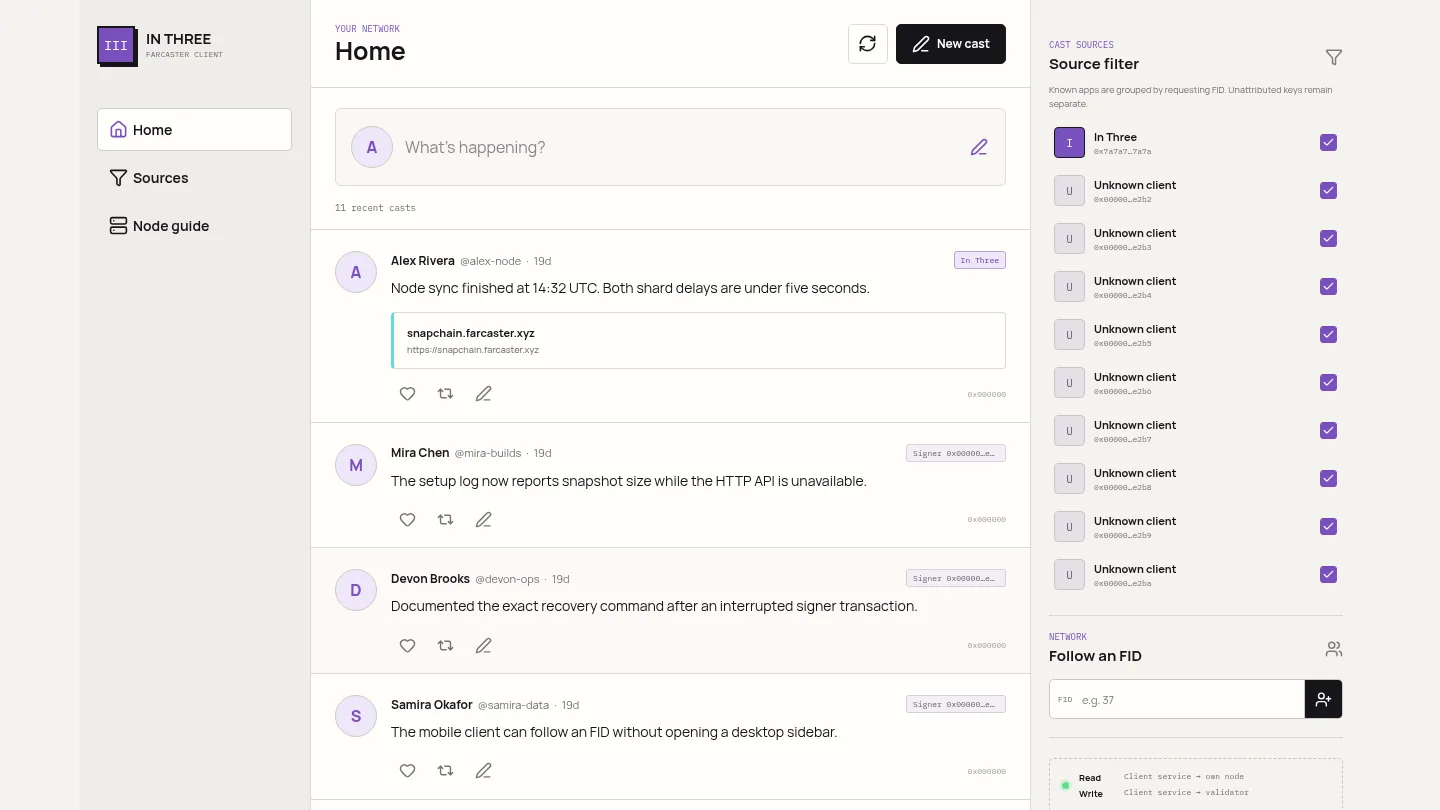
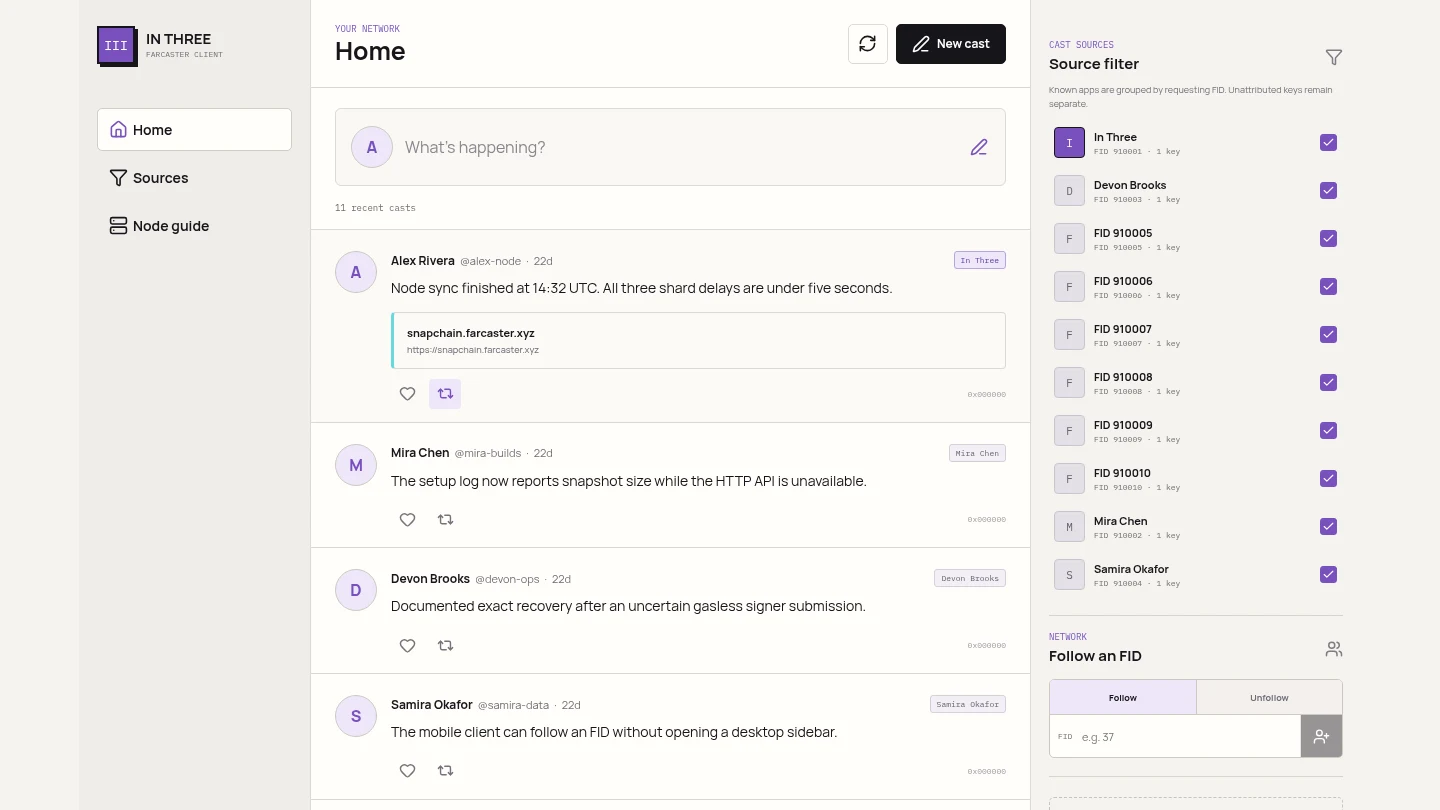
docs: state the owned read and write paths

diff --git a/site/src/App.tsx b/site/src/App.tsx
@@ -119,7 +119,7 @@ export function App() {
               <span>FARCASTER ON YOUR OWN NODE</span>
             </div>
             <h1>Farcaster,<br /><em>in three.</em></h1>
-            <p>Run a Snapchain node and browser client from your own machine in three commands. No hosted Farcaster data API.</p>
+            <p>Run a Snapchain node and browser client from your own machine in three commands. Reads and signed writes go through your node. No hosted Farcaster data API.</p>
             <div className="hero-actions">
               <a className="primary-link" href="#start">Run the three <ArrowDown size={17} /></a>
               <a className="text-link" href={REPO} target="_blank" rel="noreferrer">View source <ArrowRight size={16} /></a>

diff --git a/docs/ARCHITECTURE.md b/docs/ARCHITECTURE.md
@@ -1,21 +1,16 @@
 # Architecture
 
-In Three gives the browser one path for reads and writes:
+In Three gives the browser one owned path for reads and writes:
 
 ```text
-browser
-   |
-   v
-client service
-   |
-   v
-your Snapchain node
-   |
-   v
-Farcaster validators
+browser <-> client service
+               |
+               +-- read queries ----------> your Snapchain node
+               |
+               +-- signed write messages -> your Snapchain node -> validator peers
 ```
 
-The browser does not use a hosted Farcaster data API. The client reads from your node and sends signed actions back to that same node.
+The browser does not use a hosted Farcaster data API. The client reads from your node and sends signed actions back to that same node. The node validates accepted writes and relays them to validator peers.
 
 ## Reads and writes
 
